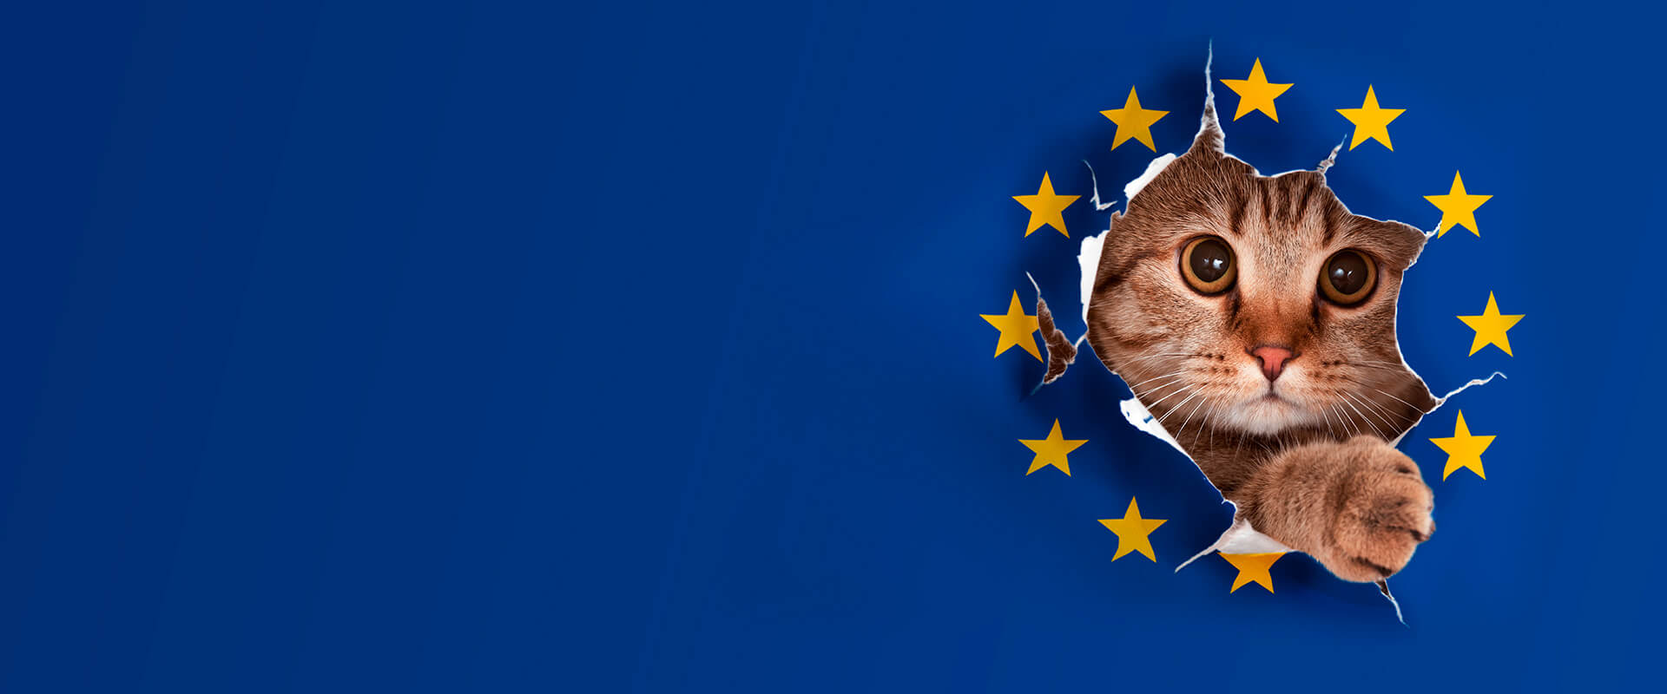
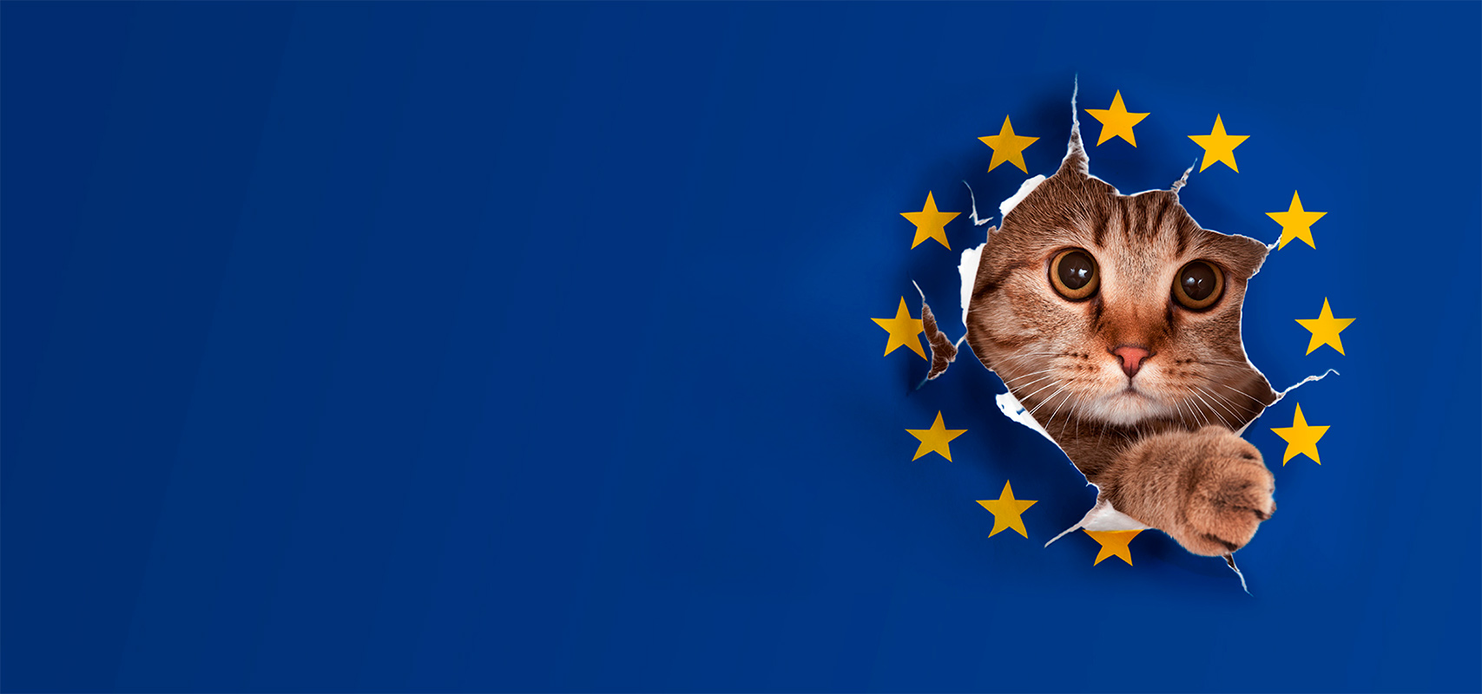
d

Changed region(s): [[0.5899, 0.0625, 0.9004, 0.875], [0.8694, 0.4375, 0.9315, 0.4688]]

diff --git a/light/css/main.min.css b/light/css/main.min.css
@@ -1,1 +1,1 @@
-@charset "UTF-8";@font-face{font-family:gilroy-regular;font-weight:400;font-style:normal;src:url(../fonts/Gilroy-Regular/329DD5_6_0.eot);src:url(../fonts/Gilroy-Regular/329DD5_6_0.eot?#iefix) format("embedded-opentype"),url(../fonts/Gilroy-Regular/329DD5_6_0.woff) format("woff"),url(../fonts/Gilroy-Regular/329DD5_6_0.ttf) format("truetype")}@font-face{font-family:gilroy-regular1;font-weight:400;font-style:normal;src:url(../fonts/Gilroy-Regular/gilroy_regular.eot);src:url(../fonts/Gilroy-Regular/gilroy_regular.eot?#iefix) format("embedded-opentype"),url(../fonts/Gilroy-Regular/gilroy_regular.woff) format("woff"),url(../fonts/Gilroy-Regular/gilroy_regular.ttf) format("truetype")}@font-face{font-family:gilroy-bold;font-weight:700;font-style:normal;src:url(../fonts/Gilroy-Bold/329DD5_11_0.eot);src:url(../fonts/Gilroy-Bold/329DD5_11_0.eot?#iefix) format("embedded-opentype"),url(../fonts/Gilroy-Bold/329DD5_11_0.woff) format("woff"),url(../fonts/Gilroy-Bold/329DD5_11_0.ttf) format("truetype")}@font-face{font-family:gilroy-medium;font-weight:500;font-style:normal;src:url(../fonts/Gilroy-Medium/329DD5_9_0.eot);src:url(../fonts/Gilroy-Medium/329DD5_9_0.eot?#iefix) format("embedded-opentype"),url(../fonts/Gilroy-Medium/329DD5_9_0.woff) format("woff"),url(../fonts/Gilroy-Medium/329DD5_9_0.ttf) format("truetype")}::-webkit-input-placeholder{color:#666}::-moz-placeholder{color:#666}:-ms-input-placeholder{color:#666}::-ms-input-placeholder{color:#666}::placeholder{color:#666}::-moz-selection{background-color:#262425;color:#fff}::selection{background-color:#262425;color:#fff}body{font-size:16px;min-width:320px;position:relative;line-height:1.65;font-family:gilroy-regular,sans-serif;overflow-x:hidden;margin:0;color:#000}body input,body textarea{border:#666 1px solid;outline:0}body input:focus:required:invalid,body textarea:focus:required:invalid{border-color:red}body input:required:valid,body textarea:required:valid{border-color:green}.img-responsive{display:block;max-width:100%;height:auto}.img-responsive.img-width{width:100%}.text-center{text-align:center}b,strong{font-weight:700}.header{position:relative;min-height:90vh}.container{max-width:1170px;margin:0 auto;padding-left:30px;padding-right:30px;display:-webkit-box;display:-webkit-flex;display:-ms-flexbox;display:flex;-webkit-flex-wrap:wrap;-ms-flex-wrap:wrap;flex-wrap:wrap}.headline{width:100%;background-color:#e2b138;padding-top:15px;padding-bottom:15px;-webkit-box-shadow:0 3px 7px 0 rgba(0,0,0,.16);box-shadow:0 3px 7px 0 rgba(0,0,0,.16)}.headline .container{max-width:1100px;-webkit-box-pack:justify;-webkit-justify-content:space-between;-ms-flex-pack:justify;justify-content:space-between}.headline_mail{font-size:20px;display:-webkit-box;display:-webkit-flex;display:-ms-flexbox;display:flex;-webkit-box-align:center;-webkit-align-items:center;-ms-flex-align:center;align-items:center}.headline_mail-description{margin-left:18px}.button{white-space:nowrap;background-color:#262425;-webkit-border-radius:50px;border-radius:50px;-webkit-box-shadow:0 3px 7px 0 rgba(0,0,0,.3);box-shadow:0 3px 7px 0 rgba(0,0,0,.3);padding:3px 75px;text-align:center;display:inline-block;font-family:gilroy-medium;font-size:20px;line-height:1.8;color:#fff;text-decoration:none;cursor:pointer;border:none;-webkit-transition:all .5s;-o-transition:all .5s;transition:all .5s}.button:hover{-webkit-box-shadow:inset 0 0 20px rgba(255,255,255,.5),0 0 20px rgba(255,255,255,.3);box-shadow:inset 0 0 20px rgba(255,255,255,.5),0 0 20px rgba(255,255,255,.3);outline-color:rgba(255,255,255,0);outline-offset:15px}.button:active{color:#fff;text-decoration:none}a:active,a:hover,a:visited{color:#fff;text-decoration:none}.header-composition{position:absolute;top:-50px;left:15px}.header-composition img{width:100%}.header_content{padding-top:95px}.header_content .container{position:relative}.header_content_left{-webkit-box-sizing:border-box;box-sizing:border-box;word-wrap:break-word;margin-left:15px;margin-right:15px;width:-webkit-calc(58.33333% - 30px);width:calc(58.33333% - 30px);margin-top:105px}.header_content_left-logo{max-width:90%}.header_content_left .h1{text-transform:uppercase;font-size:40px;font-family:gilroy-bold;margin-top:45px;margin-bottom:0}.header_content_left-description{font-size:28px;line-height:1.42;letter-spacing:.7px}.header_content_right{-webkit-box-sizing:border-box;box-sizing:border-box;word-wrap:break-word;margin-left:15px;margin-right:15px;width:-webkit-calc(40% - 30px);width:calc(40% - 30px);display:-webkit-box;display:-webkit-flex;display:-ms-flexbox;display:flex;-webkit-box-align:center;-webkit-align-items:center;-ms-flex-align:center;align-items:center}.header_content_right-upakovka{width:100%}.header_content_items{margin-top:20px;margin-bottom:-35px;width:100%;display:-webkit-box;display:-webkit-flex;display:-ms-flexbox;display:flex;-webkit-flex-wrap:wrap;-ms-flex-wrap:wrap;flex-wrap:wrap;-webkit-box-pack:center;-webkit-justify-content:center;-ms-flex-pack:center;justify-content:center}.header_content_items-item{-webkit-box-sizing:border-box;box-sizing:border-box;word-wrap:break-word;margin-left:15px;margin-right:15px;width:-webkit-calc(25% - 30px);width:calc(25% - 30px);-webkit-border-radius:10px;border-radius:10px;-webkit-box-shadow:0 3px 7px 0 rgba(0,0,0,.16);box-shadow:0 3px 7px 0 rgba(0,0,0,.16);text-align:center;padding:25px 0;margin-right:10px;background-color:#fff}.header_content_items-item img{width:55%}.header_content_items-item .description{font-size:22px;margin-top:25px}.bg{background-repeat:no-repeat;-webkit-background-size:cover;background-size:cover;background-position:top center}.s1{padding:250px 0;background-image:url(../img/1.jpg)}.section_img{-webkit-flex-basis:12%;-ms-flex-preferred-size:12%;flex-basis:12%;margin-right:35px;min-width:110px}.section_img img{width:100%}.section_content{-webkit-flex-basis:55%;-ms-flex-preferred-size:55%;flex-basis:55%}h2{margin:0;padding:0}.h2{font-size:40px;font-family:gilroy-bold;margin-top:25px;margin-bottom:30px}.section_description{font-size:28px}.s2{padding:150px 0;background-color:#ebebeb}.s2 .section_content{-webkit-flex-basis:70%;-ms-flex-preferred-size:70%;flex-basis:70%}.s2_items{display:-webkit-box;display:-webkit-flex;display:-ms-flexbox;display:flex;-webkit-flex-wrap:nowrap;-ms-flex-wrap:nowrap;flex-wrap:nowrap;margin-top:40px;margin-left:-65px;-webkit-box-pack:center;-webkit-justify-content:center;-ms-flex-pack:center;justify-content:center}.s2_items-item{display:-webkit-box;display:-webkit-flex;display:-ms-flexbox;display:flex;-webkit-box-align:start;-webkit-align-items:flex-start;-ms-flex-align:start;align-items:flex-start;-webkit-box-sizing:border-box;box-sizing:border-box;word-wrap:break-word;margin-left:15px;margin-right:15px}.s2_items-item img{width:100%;height:auto}.i1,.i3,.i5{min-width:80px}.i2,.i4{-webkit-align-self:center;-ms-flex-item-align:center;align-self:center;min-width:36px}.s3{padding:120px 0;background-image:url(../img/2.png);-webkit-background-size:40% 40%;background-size:40%;background-position:90% 70%}.s3 .section_content{-webkit-flex-basis:50%;-ms-flex-preferred-size:50%;flex-basis:50%}.s4{padding:150px 0;padding-top:43vh;background-image:url(../img/4.png)}.s4 .section_content{-webkit-flex-basis:70%;-ms-flex-preferred-size:70%;flex-basis:70%;color:#fff}.s5{padding-top:100px}.s5 .section_content{-webkit-flex-basis:80%;-ms-flex-preferred-size:80%;flex-basis:80%;margin-bottom:50px}.s5 .bgbottom{min-height:35vh;background-image:url(../img/5.jpg)}.s6 .section_img{margin-top:15px}.s6 .section_img img{width:100%;height:auto}.s6 .container{margin-right:0;padding-right:0;max-width:1535px;-webkit-box-pack:end;-webkit-justify-content:flex-end;-ms-flex-pack:end;justify-content:flex-end;-webkit-box-align:center;-webkit-align-items:center;-ms-flex-align:center;align-items:center;-webkit-flex-wrap:nowrap;-ms-flex-wrap:nowrap;flex-wrap:nowrap;position:relative}.s6 .section_content{-webkit-flex-basis:55%;-ms-flex-preferred-size:55%;flex-basis:55%;-webkit-box-sizing:border-box;box-sizing:border-box;padding-right:35px;padding-top:35px;margin-bottom:45px}.s6 .section_content .h2{margin-top:0}.content_img{-webkit-flex-basis:30%;-ms-flex-preferred-size:30%;flex-basis:30%;-webkit-align-self:flex-end;-ms-flex-item-align:end;align-self:flex-end;-webkit-box-sizing:border-box;box-sizing:border-box}.content_img img{width:100%;height:auto;margin-bottom:-9px}.s7{background-image:url(../img/7.jpg);padding-top:150px;padding-bottom:350px;color:#fff}.s7 .section_content{-webkit-flex-basis:85%;-ms-flex-preferred-size:85%;flex-basis:85%}.s7 .section_content .section_description .list{list-style-type:none;padding-left:0}.s7 .section_content .section_description .list li{text-shadow:0 3px 7px rgba(0,0,0,.41)}.s7 .section_content .section_description .list li:before{content:'•'}.s8{display:-webkit-box;display:-webkit-flex;display:-ms-flexbox;display:flex;padding:70px 0;-webkit-box-pack:center;-webkit-justify-content:center;-ms-flex-pack:center;justify-content:center}.s8 .button{font-size:26px;letter-spacing:2px;line-height:59px;padding:7px 105px}.footer{background:#525252;color:#fff;padding:50px 0}.footer .container{max-width:1160px}.footer__content{width:100%;display:-webkit-box;display:-webkit-flex;display:-ms-flexbox;display:flex;-webkit-flex-wrap:wrap;-ms-flex-wrap:wrap;flex-wrap:wrap;-webkit-box-pack:justify;-webkit-justify-content:space-between;-ms-flex-pack:justify;justify-content:space-between}.footer__content .footer__content-logo{margin-bottom:25px;-webkit-box-sizing:border-box;box-sizing:border-box;word-wrap:break-word;margin-left:15px;margin-right:15px;width:-webkit-calc(25% - 30px);width:calc(25% - 30px);text-align:center}.footer__content .footer__content-logo img{width:100%;max-width:223px}.footer__content .footer__content-block_01{-webkit-box-sizing:border-box;box-sizing:border-box;word-wrap:break-word;margin-left:15px;margin-right:15px;width:-webkit-calc(50% - 30px);width:calc(50% - 30px)}.footer__content .footer__content-block_01 p{margin-top:0;font-size:16px;line-height:18px}.footer__content .footer__content-block_02{-webkit-box-sizing:border-box;box-sizing:border-box;word-wrap:break-word;margin-left:15px;margin-right:15px;width:-webkit-calc(25% - 30px);width:calc(25% - 30px);font-size:16px;text-align:right;position:relative}.footer__content .footer__content-block_02 p{font-size:16px;line-height:18px;margin:0;margin-bottom:10px}.footer__content .footer__content-block_02 .footer_line{position:absolute;width:55px;right:0}.footer__content .footer__content-block_02 .phone{margin-top:35px;line-height:25px}@media screen and (max-width:1100px){.header_content_right{margin-top:60px}.s2_items{margin-left:0}.s6 .container{margin:0 auto}.s6 .container{-webkit-box-pack:start;-webkit-justify-content:flex-start;-ms-flex-pack:start;justify-content:flex-start}}@media screen and (max-width:992px){.header_content_left .h1{margin-top:15px}.header_content_left .h1{font-size:32px}.header_content_left-description{font-size:22px}.header_content_items{margin-top:40px}.header_content_items-item .description{font-size:18px}.s1{padding:150px 0}.h2{font-size:32px}.section_description{font-size:22px}.s2{padding:100px 0}.i1,.i3,.i5{width:-webkit-calc(25% - 30px);width:calc(25% - 30px)}.i2,.i4{width:-webkit-calc(12.5% - 30px);width:calc(12.5% - 30px)}.s3{-webkit-background-size:50% 50%;background-size:50%;background-position:100% 50%}.s6 .container{padding-top:100px}.s6 .section_content{padding-top:0}.s6 .section_content .h2{position:absolute;margin-bottom:10px;top:15px}}@media screen and (max-width:768px){.container{padding-left:15px;padding-right:15px}.header-composition{max-width:90px}.header-composition{top:-80px}.header_content_left{width:-webkit-calc(50% - 30px);width:calc(50% - 30px)}.header_content_left{margin-top:15px}.header_content_left{display:-webkit-box;display:-webkit-flex;display:-ms-flexbox;display:flex}.header_content_left{-webkit-box-orient:vertical;-webkit-box-direction:normal;-webkit-flex-direction:column;-ms-flex-direction:column;flex-direction:column}.header_content_left{-webkit-box-pack:center;-webkit-justify-content:center;-ms-flex-pack:center;justify-content:center}.header_content_left .h1{font-size:28px}.header_content_left .h1{margin-top:15px}.header_content_left-description{font-size:18px}.header_content_right{width:-webkit-calc(50% - 30px);width:calc(50% - 30px)}.header_content_items{margin-bottom:-65px}.header_content_items-item{width:-webkit-calc(35% - 30px);width:calc(35% - 30px)}.header_content_items-item{margin-bottom:25px}.h2{font-size:28px}.section_description{font-size:18px}.s6 .section_img{margin-top:0}.s6 .section_content{padding-right:15px}.content_img{-webkit-flex-basis:40%;-ms-flex-preferred-size:40%;flex-basis:40%}}@media screen and (max-width:576px){.headline .container{-webkit-box-orient:vertical;-webkit-box-direction:normal;-webkit-flex-direction:column;-ms-flex-direction:column;flex-direction:column}.headline .container{-webkit-box-align:center;-webkit-align-items:center;-ms-flex-align:center;align-items:center}.headline_mail{margin-bottom:15px}.header_content .container{-webkit-box-pack:center;-webkit-justify-content:center;-ms-flex-pack:center;justify-content:center}.header_content_left{width:-webkit-calc(83.33333% - 30px);width:calc(83.33333% - 30px)}.header_content_left{margin-bottom:25px}.header_content_right{width:-webkit-calc(83.33333% - 30px);width:calc(83.33333% - 30px)}.header_content_right{margin-top:15px}.header_content_items-item{width:-webkit-calc(50% - 30px);width:calc(50% - 30px)}.header_content_items-item .description{font-size:16px}.s1{padding:100px 0}.section_content{-webkit-flex-basis:75%;-ms-flex-preferred-size:75%;flex-basis:75%}.s2_items-item{margin-right:5px;margin-left:5px}.s3{background-position:100% 24%;-webkit-background-size:70% 70%;background-size:70%}.s3 .section_content{-webkit-flex-basis:90%;-ms-flex-preferred-size:90%;flex-basis:90%}.s4 .section_content{-webkit-flex-basis:90%;-ms-flex-preferred-size:90%;flex-basis:90%}.s5 .section_content{-webkit-flex-basis:90%;-ms-flex-preferred-size:90%;flex-basis:90%}.s5 .section_content{margin-bottom:0}.s6 .section_img{margin-top:35px}.s6 .section_img{padding-left:15px}.s6 .container{-webkit-flex-wrap:wrap;-ms-flex-wrap:wrap;flex-wrap:wrap}.s6 .container{padding-top:15px}.s6 .container{padding-left:0}.s6 .section_content{-webkit-flex-basis:100%;-ms-flex-preferred-size:100%;flex-basis:100%}.s6 .section_content{padding-left:15px}.s6 .section_content .h2{position:relative;margin-bottom:25px}.content_img{-webkit-flex-basis:100%;-ms-flex-preferred-size:100%;flex-basis:100%}.s7{padding-bottom:150px}.s8 .button{padding:2px 65px}.footer__content{-webkit-box-orient:vertical;-webkit-box-direction:normal;-webkit-flex-direction:column;-ms-flex-direction:column;flex-direction:column}.footer__content{-webkit-box-align:center;-webkit-align-items:center;-ms-flex-align:center;align-items:center}.footer__content .footer__content-logo{width:-webkit-calc(66.66667% - 30px);width:calc(66.66667% - 30px)}.footer__content .footer__content-block_01{width:-webkit-calc(83.33333% - 30px);width:calc(83.33333% - 30px)}.footer__content .footer__content-block_02{width:-webkit-calc(83.33333% - 30px);width:calc(83.33333% - 30px)}}@media screen and (max-width:400px){.header_content_left{width:-webkit-calc(100% - 30px);width:calc(100% - 30px)}.header_content_left-description{font-size:20px}.header_content_right{width:-webkit-calc(100% - 30px);width:calc(100% - 30px)}.header_content_items-item{width:-webkit-calc(83.33333% - 30px);width:calc(83.33333% - 30px)}.header_content_items-item .description{font-size:18px}.section_img{-webkit-flex-basis:45%;-ms-flex-preferred-size:45%;flex-basis:45%}.section_content{-webkit-flex-basis:90%;-ms-flex-preferred-size:90%;flex-basis:90%}.section_description{font-size:20px}.s2 .section_content{-webkit-flex-basis:100%;-ms-flex-preferred-size:100%;flex-basis:100%}.s2_items{-webkit-flex-wrap:wrap;-ms-flex-wrap:wrap;flex-wrap:wrap}.s2_items{-webkit-box-orient:vertical;-webkit-box-direction:normal;-webkit-flex-direction:column;-ms-flex-direction:column;flex-direction:column;-webkit-box-align:center;-webkit-align-items:center;-ms-flex-align:center;align-items:center}.i1,.i3,.i5{width:-webkit-calc(100% - 30px);width:calc(100% - 30px)}.i1,.i3,.i5{max-width:150px}.i2,.i4{width:-webkit-calc(100% - 30px);width:calc(100% - 30px)}.i2,.i4{-webkit-transform:rotate(90deg);-ms-transform:rotate(90deg);transform:rotate(90deg);max-width:60px;margin-top:30px;margin-bottom:30px}.s3{-webkit-background-size:100% 100%;background-size:100%;background-position:0 22%}}
+@charset "UTF-8";@font-face{font-family:gilroy-regular;font-weight:400;font-style:normal;src:url(../fonts/Gilroy-Regular/329DD5_6_0.eot);src:url(../fonts/Gilroy-Regular/329DD5_6_0.eot?#iefix) format("embedded-opentype"),url(../fonts/Gilroy-Regular/329DD5_6_0.woff) format("woff"),url(../fonts/Gilroy-Regular/329DD5_6_0.ttf) format("truetype")}@font-face{font-family:gilroy-regular1;font-weight:400;font-style:normal;src:url(../fonts/Gilroy-Regular/gilroy_regular.eot);src:url(../fonts/Gilroy-Regular/gilroy_regular.eot?#iefix) format("embedded-opentype"),url(../fonts/Gilroy-Regular/gilroy_regular.woff) format("woff"),url(../fonts/Gilroy-Regular/gilroy_regular.ttf) format("truetype")}@font-face{font-family:gilroy-bold;font-weight:700;font-style:normal;src:url(../fonts/Gilroy-Bold/329DD5_11_0.eot);src:url(../fonts/Gilroy-Bold/329DD5_11_0.eot?#iefix) format("embedded-opentype"),url(../fonts/Gilroy-Bold/329DD5_11_0.woff) format("woff"),url(../fonts/Gilroy-Bold/329DD5_11_0.ttf) format("truetype")}@font-face{font-family:gilroy-medium;font-weight:500;font-style:normal;src:url(../fonts/Gilroy-Medium/329DD5_9_0.eot);src:url(../fonts/Gilroy-Medium/329DD5_9_0.eot?#iefix) format("embedded-opentype"),url(../fonts/Gilroy-Medium/329DD5_9_0.woff) format("woff"),url(../fonts/Gilroy-Medium/329DD5_9_0.ttf) format("truetype")}::-webkit-input-placeholder{color:#666}::-moz-placeholder{color:#666}:-ms-input-placeholder{color:#666}::-ms-input-placeholder{color:#666}::placeholder{color:#666}::-moz-selection{background-color:#262425;color:#fff}::selection{background-color:#262425;color:#fff}body{font-size:16px;min-width:320px;position:relative;line-height:1.65;font-family:gilroy-regular,sans-serif;overflow-x:hidden;margin:0;color:#000}body input,body textarea{border:#666 1px solid;outline:0}body input:focus:required:invalid,body textarea:focus:required:invalid{border-color:red}body input:required:valid,body textarea:required:valid{border-color:green}.img-responsive{display:block;max-width:100%;height:auto}.img-responsive.img-width{width:100%}.text-center{text-align:center}b,strong{font-weight:700}.header{position:relative;min-height:90vh}.container{max-width:1170px;margin:0 auto;padding-left:30px;padding-right:30px;display:-webkit-box;display:-webkit-flex;display:-ms-flexbox;display:flex;-webkit-flex-wrap:wrap;-ms-flex-wrap:wrap;flex-wrap:wrap}.headline{width:100%;background-color:#e2b138;padding-top:15px;padding-bottom:15px;-webkit-box-shadow:0 3px 7px 0 rgba(0,0,0,.16);box-shadow:0 3px 7px 0 rgba(0,0,0,.16)}.headline .container{max-width:1100px;-webkit-box-pack:justify;-webkit-justify-content:space-between;-ms-flex-pack:justify;justify-content:space-between}.headline_mail{font-size:20px;display:-webkit-box;display:-webkit-flex;display:-ms-flexbox;display:flex;-webkit-box-align:center;-webkit-align-items:center;-ms-flex-align:center;align-items:center}.headline_mail-description{margin-left:18px}.button{white-space:nowrap;background-color:#262425;-webkit-border-radius:50px;border-radius:50px;-webkit-box-shadow:0 3px 7px 0 rgba(0,0,0,.3);box-shadow:0 3px 7px 0 rgba(0,0,0,.3);padding:3px 75px;text-align:center;display:inline-block;font-family:gilroy-medium;font-size:20px;line-height:1.8;color:#fff;text-decoration:none;cursor:pointer;border:none;-webkit-transition:all .5s;-o-transition:all .5s;transition:all .5s}.button:hover{-webkit-box-shadow:inset 0 0 20px rgba(255,255,255,.5),0 0 20px rgba(255,255,255,.3);box-shadow:inset 0 0 20px rgba(255,255,255,.5),0 0 20px rgba(255,255,255,.3);outline-color:rgba(255,255,255,0);outline-offset:15px}.button:active{color:#fff;text-decoration:none}a:active,a:hover,a:visited{color:#fff;text-decoration:none}.header-composition{position:absolute;top:-50px;left:15px}.header-composition img{width:100%}.header_content{padding-top:95px}.header_content .container{position:relative}.header_content_left{-webkit-box-sizing:border-box;box-sizing:border-box;word-wrap:break-word;margin-left:15px;margin-right:15px;width:-webkit-calc(58.33333% - 30px);width:calc(58.33333% - 30px);margin-top:105px}.header_content_left-logo{max-width:90%}.header_content_left .h1{text-transform:uppercase;font-size:40px;font-family:gilroy-bold;margin-top:45px;margin-bottom:0}.header_content_left-description{font-size:28px;line-height:1.42;letter-spacing:.7px}.header_content_right{-webkit-box-sizing:border-box;box-sizing:border-box;word-wrap:break-word;margin-left:15px;margin-right:15px;width:-webkit-calc(40% - 30px);width:calc(40% - 30px);display:-webkit-box;display:-webkit-flex;display:-ms-flexbox;display:flex;-webkit-box-align:center;-webkit-align-items:center;-ms-flex-align:center;align-items:center}.header_content_right-upakovka{width:100%}.header_content_items{margin-top:20px;margin-bottom:-35px;width:100%;display:-webkit-box;display:-webkit-flex;display:-ms-flexbox;display:flex;-webkit-flex-wrap:wrap;-ms-flex-wrap:wrap;flex-wrap:wrap;-webkit-box-pack:center;-webkit-justify-content:center;-ms-flex-pack:center;justify-content:center}.header_content_items-item{-webkit-box-sizing:border-box;box-sizing:border-box;word-wrap:break-word;margin-left:15px;margin-right:15px;width:-webkit-calc(25% - 30px);width:calc(25% - 30px);-webkit-border-radius:10px;border-radius:10px;-webkit-box-shadow:0 3px 7px 0 rgba(0,0,0,.16);box-shadow:0 3px 7px 0 rgba(0,0,0,.16);text-align:center;padding:25px 0;margin-right:10px;background-color:#fff}.header_content_items-item img{width:55%}.header_content_items-item .description{font-size:22px;margin-top:25px}.bg{background-repeat:no-repeat;-webkit-background-size:cover;background-size:cover;background-position:top center}.s1{padding:250px 0;background-image:url(../img/1.jpg)}.s1 .container{-webkit-flex-wrap:nowrap;-ms-flex-wrap:nowrap;flex-wrap:nowrap}.section_img{-webkit-flex-basis:12%;-ms-flex-preferred-size:12%;flex-basis:12%;margin-top:35px;margin-right:35px;min-width:100px}.section_img img{width:100%}.section_content{-webkit-flex-basis:55%;-ms-flex-preferred-size:55%;flex-basis:55%}h2{margin:0;padding:0}.h2{font-size:40px;font-family:gilroy-bold;margin-top:25px;margin-bottom:30px}.section_description{font-size:28px}.nowrap{-webkit-flex-wrap:nowrap;-ms-flex-wrap:nowrap;flex-wrap:nowrap}.s2{padding:150px 0;background-color:#ebebeb}.s2 .section_content{-webkit-flex-basis:70%;-ms-flex-preferred-size:70%;flex-basis:70%}.s2_items{display:-webkit-box;display:-webkit-flex;display:-ms-flexbox;display:flex;-webkit-flex-wrap:nowrap;-ms-flex-wrap:nowrap;flex-wrap:nowrap;margin-top:40px;margin-left:-65px;-webkit-box-pack:center;-webkit-justify-content:center;-ms-flex-pack:center;justify-content:center}.s2_items-item{display:-webkit-box;display:-webkit-flex;display:-ms-flexbox;display:flex;-webkit-box-align:start;-webkit-align-items:flex-start;-ms-flex-align:start;align-items:flex-start;-webkit-box-sizing:border-box;box-sizing:border-box;word-wrap:break-word;margin-left:15px;margin-right:15px}.s2_items-item img{width:100%;height:auto}.i1,.i3,.i5{min-width:80px}.i2,.i4{-webkit-align-self:center;-ms-flex-item-align:center;align-self:center;min-width:36px}.s3{padding:120px 0;background-image:url(../img/2.png);-webkit-background-size:40% 40%;background-size:40%;background-position:90% 70%}.s3 .section_content{-webkit-flex-basis:50%;-ms-flex-preferred-size:50%;flex-basis:50%}.s4{padding:150px 0;padding-top:35vh;background-image:url(../img/4.png)}.s4 .section_content{-webkit-flex-basis:70%;-ms-flex-preferred-size:70%;flex-basis:70%;color:#fff}.s5{padding-top:70px}.s5 .section_content{-webkit-flex-basis:80%;-ms-flex-preferred-size:80%;flex-basis:80%;margin-bottom:50px}.s5 .bgbottom{min-height:50vh;background-image:url(../img/5.jpg)}.s6{color:#fff;padding:200px 0;background-image:url(../img/3.jpg);-webkit-background-size:100% 140%;background-size:100% 140%;background-position:1% 50%;background-color:#00387f}.s6 .section_img{margin-top:0;max-width:130px}.s6 .section_img img{width:100%;height:auto}.s6 .section_content{-webkit-box-sizing:border-box;box-sizing:border-box;-webkit-flex-basis:45%;-ms-flex-preferred-size:45%;flex-basis:45%}.s6 .section_content .h2{margin-top:0;line-height:1}.s7{background-image:url(../img/7.jpg);padding-top:150px;padding-bottom:350px;color:#fff}.s7 .section_content{-webkit-flex-basis:85%;-ms-flex-preferred-size:85%;flex-basis:85%}.s7 .section_content .section_description .list{list-style-type:none;padding-left:0}.s7 .section_content .section_description .list li{text-shadow:0 3px 7px rgba(0,0,0,.41)}.s7 .section_content .section_description .list li:before{content:'•'}.s8{display:-webkit-box;display:-webkit-flex;display:-ms-flexbox;display:flex;padding:70px 0;-webkit-box-pack:center;-webkit-justify-content:center;-ms-flex-pack:center;justify-content:center}.s8 .button{font-size:26px;letter-spacing:2px;line-height:59px;padding:7px 105px}.footer{background:#525252;color:#fff;padding:50px 0}.footer .container{max-width:1160px}.footer__content{width:100%;display:-webkit-box;display:-webkit-flex;display:-ms-flexbox;display:flex;-webkit-flex-wrap:wrap;-ms-flex-wrap:wrap;flex-wrap:wrap;-webkit-box-pack:justify;-webkit-justify-content:space-between;-ms-flex-pack:justify;justify-content:space-between}.footer__content .footer__content-logo{margin-bottom:25px;-webkit-box-sizing:border-box;box-sizing:border-box;word-wrap:break-word;margin-left:15px;margin-right:15px;width:-webkit-calc(25% - 30px);width:calc(25% - 30px);text-align:center}.footer__content .footer__content-logo img{width:100%;max-width:223px}.footer__content .footer__content-block_01{-webkit-box-sizing:border-box;box-sizing:border-box;word-wrap:break-word;margin-left:15px;margin-right:15px;width:-webkit-calc(50% - 30px);width:calc(50% - 30px)}.footer__content .footer__content-block_01 p{margin-top:0;font-size:16px;line-height:18px}.footer__content .footer__content-block_02{-webkit-box-sizing:border-box;box-sizing:border-box;word-wrap:break-word;margin-left:15px;margin-right:15px;width:-webkit-calc(25% - 30px);width:calc(25% - 30px);font-size:16px;text-align:right;position:relative}.footer__content .footer__content-block_02 p{font-size:16px;line-height:18px;margin:0;margin-bottom:10px}.footer__content .footer__content-block_02 .footer_line{position:absolute;width:55px;right:0}.footer__content .footer__content-block_02 .phone{margin-top:35px;line-height:25px}@media screen and (max-width:1550px){.s6{-webkit-background-size:100% 120%;background-size:100% 120%}}@media screen and (max-width:1350px){.s6{-webkit-background-size:100% 100%;background-size:100% 100%}}@media screen and (max-width:1100px){.header_content_right{margin-top:60px}.s2_items{margin-left:0}.s6{-webkit-background-size:cover;background-size:cover;padding:150px 0}}@media screen and (max-width:992px){.header_content_left .h1{margin-top:15px}.header_content_left .h1{font-size:32px}.header_content_left-description{font-size:22px}.header_content_items{margin-top:40px}.header_content_items-item .description{font-size:18px}.s1{padding:150px 0}.h2{font-size:32px}.section_description{font-size:22px}.s2{padding:100px 0}.i1,.i3,.i5{width:-webkit-calc(25% - 30px);width:calc(25% - 30px)}.i2,.i4{width:-webkit-calc(12.5% - 30px);width:calc(12.5% - 30px)}.s3{-webkit-background-size:50% 50%;background-size:50%;background-position:100% 50%}.s6 .section_content .h2{position:absolute;margin-bottom:10px;top:15px}}@media screen and (max-width:768px){.container{padding-left:15px;padding-right:15px}.header-composition{max-width:90px}.header-composition{top:-80px}.header_content_left{width:-webkit-calc(50% - 30px);width:calc(50% - 30px)}.header_content_left{margin-top:15px}.header_content_left{display:-webkit-box;display:-webkit-flex;display:-ms-flexbox;display:flex}.header_content_left{-webkit-box-orient:vertical;-webkit-box-direction:normal;-webkit-flex-direction:column;-ms-flex-direction:column;flex-direction:column}.header_content_left{-webkit-box-pack:center;-webkit-justify-content:center;-ms-flex-pack:center;justify-content:center}.header_content_left .h1{font-size:28px}.header_content_left .h1{margin-top:15px}.header_content_left-description{font-size:18px}.header_content_right{width:-webkit-calc(50% - 30px);width:calc(50% - 30px)}.header_content_items{margin-bottom:-65px}.header_content_items-item{width:-webkit-calc(35% - 30px);width:calc(35% - 30px)}.header_content_items-item{margin-bottom:25px}.h2{font-size:28px}.s6{padding:100px 0}.s6 .section_img{margin-top:0}}@media screen and (max-width:576px){.headline .container{-webkit-box-orient:vertical;-webkit-box-direction:normal;-webkit-flex-direction:column;-ms-flex-direction:column;flex-direction:column}.headline .container{-webkit-box-align:center;-webkit-align-items:center;-ms-flex-align:center;align-items:center}.headline_mail{margin-bottom:15px}.header_content .container{-webkit-box-pack:center;-webkit-justify-content:center;-ms-flex-pack:center;justify-content:center}.header_content_left{width:-webkit-calc(83.33333% - 30px);width:calc(83.33333% - 30px)}.header_content_left{margin-bottom:25px}.header_content_right{width:-webkit-calc(83.33333% - 30px);width:calc(83.33333% - 30px)}.header_content_right{margin-top:15px}.header_content_items-item{width:-webkit-calc(50% - 30px);width:calc(50% - 30px)}.header_content_items-item .description{font-size:16px}.s1{background-position:60% 0}.s1 .section_img{position:absolute;max-width:80px}.s1 .h2{margin-left:120px}.section_img{position:absolute;max-width:80px}.section_content{-webkit-flex-basis:75%;-ms-flex-preferred-size:75%;flex-basis:75%}.h2{margin-left:120px}.s2_items-item{margin-right:5px;margin-left:5px}.s3{background-position:100% 100%;-webkit-background-size:70% 70%;background-size:70%}.s3 .section_content{-webkit-flex-basis:90%;-ms-flex-preferred-size:90%;flex-basis:90%}.s3 .section_content .section_description{margin-top:70px}.s4 .section_content{-webkit-flex-basis:90%;-ms-flex-preferred-size:90%;flex-basis:90%}.s5 .section_content{-webkit-flex-basis:90%;-ms-flex-preferred-size:90%;flex-basis:90%}.s5 .section_content{margin-bottom:0}.s6{background-position:50% 50%}.s6 .section_content .h2{position:relative;margin-bottom:25px;margin-left:145px;margin-top:40px}.s6 .section_content .section_description{margin-top:85px}.s7{padding-bottom:150px}.s7{background-position:10% 50%}.s8 .button{padding:2px 65px}.footer__content{-webkit-box-orient:vertical;-webkit-box-direction:normal;-webkit-flex-direction:column;-ms-flex-direction:column;flex-direction:column}.footer__content{-webkit-box-align:center;-webkit-align-items:center;-ms-flex-align:center;align-items:center}.footer__content .footer__content-logo{width:-webkit-calc(66.66667% - 30px);width:calc(66.66667% - 30px)}.footer__content .footer__content-block_01{width:-webkit-calc(83.33333% - 30px);width:calc(83.33333% - 30px)}.footer__content .footer__content-block_02{width:-webkit-calc(83.33333% - 30px);width:calc(83.33333% - 30px)}}@media screen and (max-width:400px){.header_content_left{width:-webkit-calc(100% - 30px);width:calc(100% - 30px)}.header_content_left-description{font-size:20px}.header_content_right{width:-webkit-calc(100% - 30px);width:calc(100% - 30px)}.header_content_items-item{width:-webkit-calc(83.33333% - 30px);width:calc(83.33333% - 30px)}.header_content_items-item .description{font-size:18px}.s1{background-position:55% 0}.section_description{font-size:20px}.s2 .section_content{-webkit-flex-basis:100%;-ms-flex-preferred-size:100%;flex-basis:100%}.s2_items{-webkit-flex-wrap:wrap;-ms-flex-wrap:wrap;flex-wrap:wrap}.s2_items{-webkit-box-orient:vertical;-webkit-box-direction:normal;-webkit-flex-direction:column;-ms-flex-direction:column;flex-direction:column;-webkit-box-align:center;-webkit-align-items:center;-ms-flex-align:center;align-items:center}.i1,.i3,.i5{width:-webkit-calc(100% - 30px);width:calc(100% - 30px)}.i1,.i3,.i5{max-width:150px}.i2,.i4{width:-webkit-calc(100% - 30px);width:calc(100% - 30px)}.i2,.i4{-webkit-transform:rotate(90deg);-ms-transform:rotate(90deg);transform:rotate(90deg);max-width:60px;margin-top:30px;margin-bottom:30px}.s3{-webkit-background-size:100% 100%;background-size:100%}.s3 .section_content .section_description{margin-top:0}.s3 .section_content .section_description{margin-bottom:80px}.s6 .section_img{min-width:80px;-webkit-flex-basis:10%;-ms-flex-preferred-size:10%;flex-basis:10%;margin-right:15px;background-position:70% 50%}.s6 .section_content .h2{margin-top:0}.s6 .section_content .section_description{margin-top:125px}}

diff --git a/light/sass/main.sass b/light/sass/main.sass
@@ -49,6 +49,7 @@ b, strong
 	flex-wrap: wrap
 
 
+
 .headline
 	width: 100%
 	background-color: rgb(226, 177, 56)
@@ -201,25 +202,39 @@ a:visited, a:hover, a:active
 	background-repeat: no-repeat
 	background-size: cover
 	background-position: top center
+
 .s1
 	padding: 250px 0
 	background-image: url(../img/1.jpg)
+	.container
+		flex-wrap: nowrap
 	+md(padding, 150px 0)
-	+xs(padding, 100px 0)
-	
-	
+	+xs-block()
+		padding, 50px 0
+		background-position: 60% 0
+		.section_img
+			position: absolute	
+			max-width: 80px
+		.h2
+			margin-left: 120px	
+	+xxs-block()
+		background-position: 55% 0
+
 
 .section_img
 	flex-basis: 12%
+	margin-top: 35px
 	margin-right: 35px
-	min-width: 110px
-	+xxs(flex-basis, 45%)
+	min-width: 100px
+	+xs-block()
+		position: absolute	
+		max-width: 80px
 	img
 		width: 100%
 .section_content
 	flex-basis: 55%
 	+xs(flex-basis, 75%)
-	+xxs(flex-basis, 90%)
+	// +xxs(flex-basis, 85%)
 
 
 h2
@@ -232,13 +247,14 @@ h2
 	margin-bottom: 30px
 	+md(font-size, 32px)
 	+sm(font-size, 28px)
+	+xs(margin-left, 120px)
 .section_description
 	font-size: 28px
 	+md(font-size, 22px)
-	+sm(font-size, 18px)
 	+xxs(font-size, 20px)
 
-
+.nowrap
+	flex-wrap: nowrap
 
 	/////////SECTION2////////////////
 
@@ -303,14 +319,18 @@ h2
 		background-size: 50%
 		background-position: 100% 50%
 	+xs-block()
-		background-position: 100% 24%
+		background-position: 100% 100%
 		background-size: 70%
 	+xxs-block()	
 		background-size: 100%
-		background-position: 0 22%
+		// background-position: 0 22%
 	.section_content
 		flex-basis: 50%
 		+xs(flex-basis, 90%)
+		.section_description
+			+xs(margin-top, 70px)
+			+xxs(margin-top, 0)
+			+xxs(margin-bottom, 80px)
 
 
 
@@ -320,7 +340,7 @@ h2
 
 .s4
 	padding: 150px 0
-	padding-top: 43vh
+	padding-top: 35vh
 	background-image: url(../img/4.png)
 	.section_content
 		flex-basis: 70%
@@ -336,11 +356,9 @@ h2
 
 
 .s5	
-	// min-height: 60vh
-	padding-top: 100px
-	// .section_img
-	// 	img 
-	// 		width: 100%
+	
+	padding-top: 70px
+
 	.section_content
 		flex-basis: 80%
 		margin-bottom: 50px
@@ -348,7 +366,7 @@ h2
 		+xs(margin-bottom, 0)
 
 	.bgbottom
-		min-height: 35vh
+		min-height: 50vh
 		background-image: url(../img/5.jpg)
 
 
@@ -360,41 +378,47 @@ h2
 
 
 .s6
+	color: #fff
+	padding: 200px 0
+	background-image: url(../img/3.jpg)
+	background-size: 100% 140%
+	background-position: 1% 50%
+	@media screen and(max-width: 1550px)
+		background-size: 100% 120%
+	@media screen and(max-width: 1350px)
+		background-size: 100% 100%
+	
+	+lg-block()
+		background-size: cover
+		padding: 150px 0
+	+sm(padding, 100px 0)	
+	+xs(background-position, 50% 50%)
+	background-color: #00387f
 	.section_img
-		margin-top: 15px
+		margin-top: 0
+		max-width: 130px
 		+sm-block()
 			margin-top: 0
-		+xs(margin-top, 35px)
-		+xs(padding-left, 15px)
+		// +xs(margin-top, 35px)
+		
+		+xxs-block()
+			min-width: 80px
+			flex-basis: 10%
+			margin-right: 15px
+			background-position: 70% 50%
+		
 		img 
 			width: 100%	
 			height: auto
 	.container
-		margin-right: 0
-		padding-right: 0
-		max-width: 1535px
-		justify-content: flex-end
-		align-items: center
-		flex-wrap: nowrap
-		position: relative
-		+lg(margin, 0 auto)
-		+lg(justify-content, flex-start)
-		+md(padding-top, 100px)
-		+xs(flex-wrap, wrap)
-		+xs(padding-top, 15px)
-		+xs(padding-left, 0)
+	
 	.section_content
-		flex-basis: 55%
-		box-sizing: border-box
-		padding-right: 35px
-		padding-top: 35px
-		margin-bottom: 45px
-		+md(padding-top, 0)
-		+sm(padding-right, 15px)
-		+xs(flex-basis, 100%)
-		+xs(padding-left, 15px)
+		box-sizing: border-box	
+		flex-basis: 45%
+		// +xs(flex-basis, 100%)
 		.h2
 			margin-top: 0	
+			line-height: 1
 			+md-block()	
 				position: absolute
 				margin-bottom: 10px
@@ -402,17 +426,12 @@ h2
 			+xs-block()
 				position: relative	
 				margin-bottom: 25px
-.content_img
-	flex-basis: 30%
-	align-self: flex-end
-	+sm(flex-basis, 40%)
-	+xs(flex-basis, 100%)
-	box-sizing: border-box
-	img
-		width: 100%
-		height: auto
-		margin-bottom: -9px
-
+				margin-left: 145px
+				margin-top: 40px
+			+xxs(margin-top, 0)
+		.section_description
+			+xs(margin-top, 85px)
+			+xxs(margin-top, 125px)
 				
 
 
@@ -426,6 +445,7 @@ h2
 	padding-bottom: 350px	
 	+xs(padding-bottom, 150px)		
 	color: #fff	
+	+xs(background-position, 10% 50%)
 	.section_content
 		flex-basis: 85%
 		.section_description

diff --git a/light/index.html b/light/index.html
@@ -6,7 +6,7 @@
 	<meta charset="utf-8">
 	<!-- <base href="/"> -->
 
-	<title>Triol Light</title>
+	<title>CAT STEP</title>
 	<meta name="description" content="">
 
 	<meta http-equiv="X-UA-Compatible" content="IE=edge">
@@ -108,7 +108,7 @@
 </section>
 
 <section class="s2">
-		<div class="container">
+		<div class="container nowrap">
 		<div class="section_img">
 			<img src="img/SVG/max.svg" alt="pero">
 		</div>
@@ -136,7 +136,7 @@
 </section>
 
 <section class="s3 bg">
-	<div class="container">
+	<div class="container nowrap">
 		<div class="section_img">
 			<img src="img/SVG/granuly.svg" alt="pero">
 		</div>
@@ -162,13 +162,13 @@
 
 
 <section class="s4 bg">
-	<div class="container">
+	<div class="container nowrap">
 		<div class="section_img">
 			<img src="img/SVG/ekonom.svg" alt="ekonom">
 		</div>
 		<div class="section_content">
 			<h2 class="h2">
-				Экономичность. 1 упаковка - 5 недель
+				Экономичность. 1 упаковка на 5 недель
 			</h2>
 			<div class="section_description">
 						Благодаря более эффективному впитыванию наполнитель
@@ -181,7 +181,7 @@
 </section>	
 
 <section class="s5 bg">
-	<div class="container">
+	<div class="container nowrap">
 		<div class="section_img">
 			<img src="img/SVG/ecology.svg" alt="ekonom">
 		</div>
@@ -202,9 +202,9 @@
 
 
 <section class="s6 bg">
-	<div class="container">
+	<div class="container nowrap">
 		<div class="section_img">
-			<img src="img/brc.jpg" alt="brc">
+			<img src="img/brc.png" alt="brc">
 		</div>
 		<div class="section_content">
 			<h2 class="h2">
@@ -217,15 +217,12 @@
 				на севере Чехии.
 			</div>	
 		</div>
-	<div class="content_img">
-		<img src="img/61.jpg" alt="eco">
-	</div>
 	</div>
 
 </section>	
 
 <section class="s7 bg">
-	<div class="container">
+	<div class="container nowrap">
 		<div class="section_img">
 			<img src="img/SVG/eco.svg" alt="eco">
 		</div>
